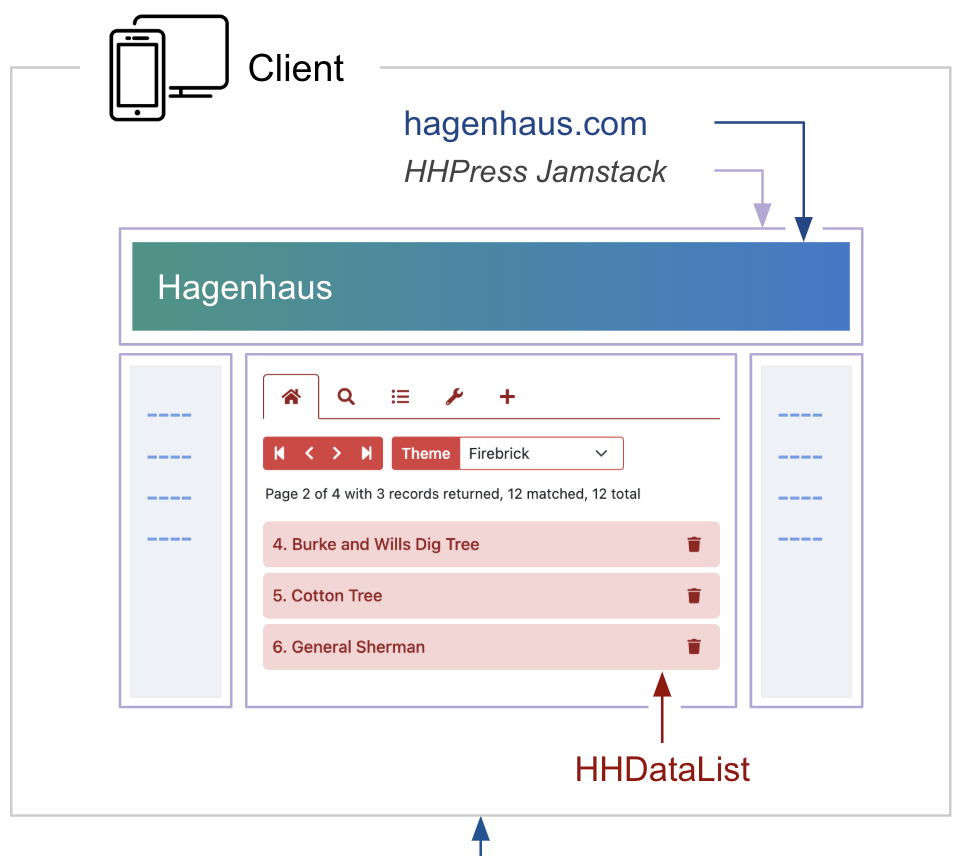
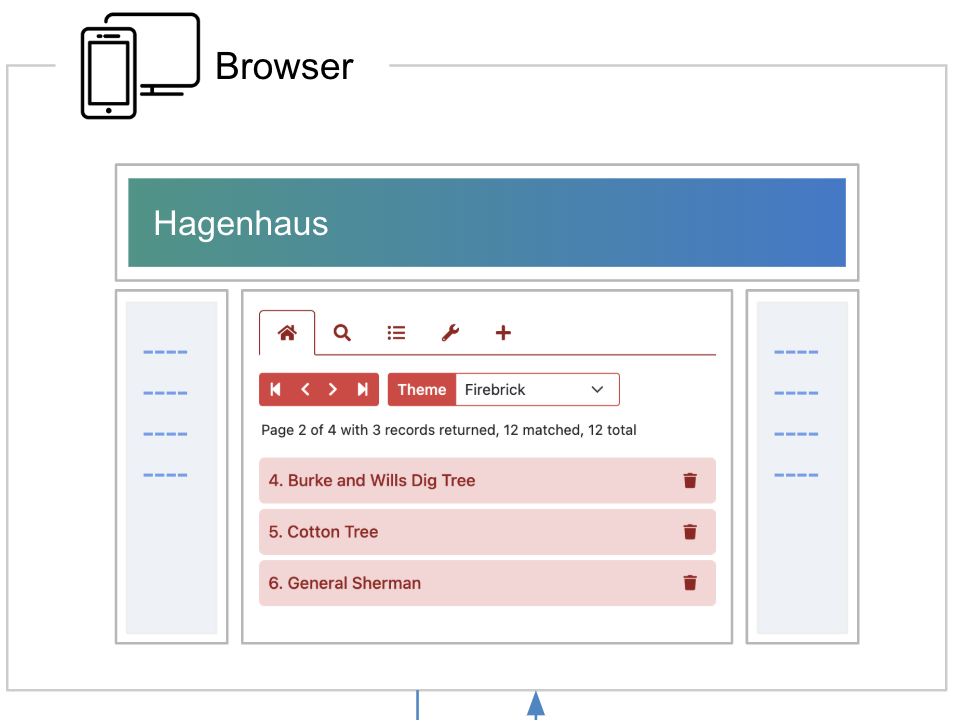
Evolving the website page.

Changed region(s): [[0.1216, 0.1222, 0.9119, 0.9167], [0.0, 0.0, 1.0, 1.0], [0.8208, 0.4583, 0.8512, 0.4889]]

diff --git a/en/website/index.md b/en/website/index.md
@@ -13,31 +13,27 @@ The diagram below illustrates the primary building blocks of my website:
 
 <div class="mb-3">
   <div class="d-none d-md-block">
-    <div><img src="webapp-h.png" class="img-fluid d-block" width="900" height="376"; loading="lazy"></div>
+    <div><img src="webapp-h.png" class="img-fluid d-block" width="900" height="318"; loading="lazy"></div>
   </div>
   <div class="d-md-none">
-    <div><img src="webapp-v1.png" class="img-fluid d-block" height="390"; loading="lazy"></div>
-    <div><img src="webapp-v2.png" class="img-fluid d-block" height="376"; loading="lazy"></div>
+    <div><img src="webapp-v1.png" class="img-fluid d-block" height="318"; loading="lazy"></div>
+    <div><img src="webapp-v2.png" class="img-fluid d-block" height="318"; loading="lazy"></div>
   </div>
 </div>
 
-The numbers in the diagram correspond to the following:
+In the diagram above, the website in the Browser box is the sum of many parts. Some are not shown in the diagram including [Bootstrap](https://getbootstrap.com/), [Fontawesome](https://fontawesome.com/), and [Axios](https://axios-http.com/). Others are numbered in the Amazon Lightsail box and described below.
 
-1. Source Files. 
+1. **Hagenhaus Files** include mostly html files and image files. The html files are the output from the HHPress Jamstack Generator. The input (i.e. source) files are markdown files like [this](https://github.com/hagenhaus/hagenhaus-com/blob/master/en/website/index.md).
 
-1. HHPress Jamstack. 
+1. **HHPress Files**
 
-1. website.tar.
+1. **HHDataList Files**
 
-1. Website Files. 
+1. **Hagenhaus API**
 
-1. HHDataList.
+1. **Hagenhaus API Server**
 
-1. Hagenhaus API.
-
-1. Hagenhaus API Server.
-
-1. Database.
+1. **Database**
 
 ### HHPress Jamstack
 
